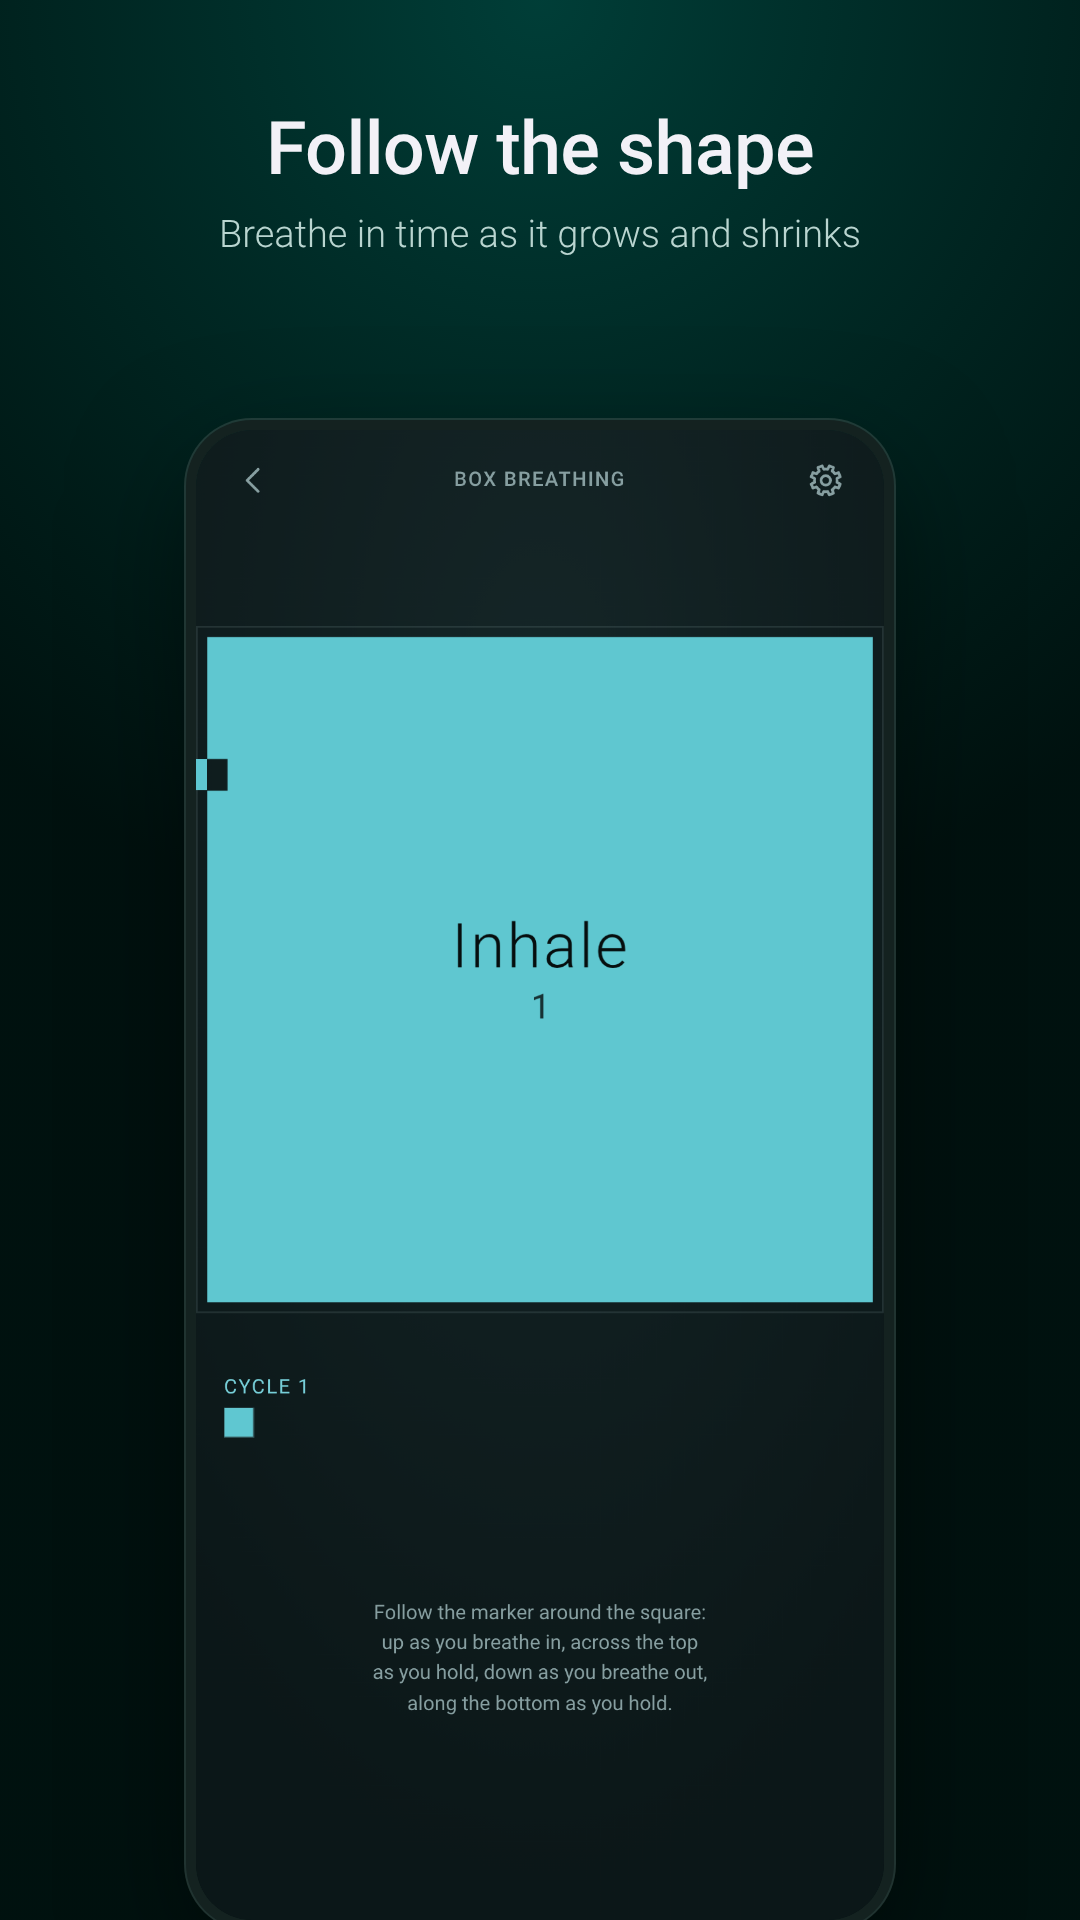
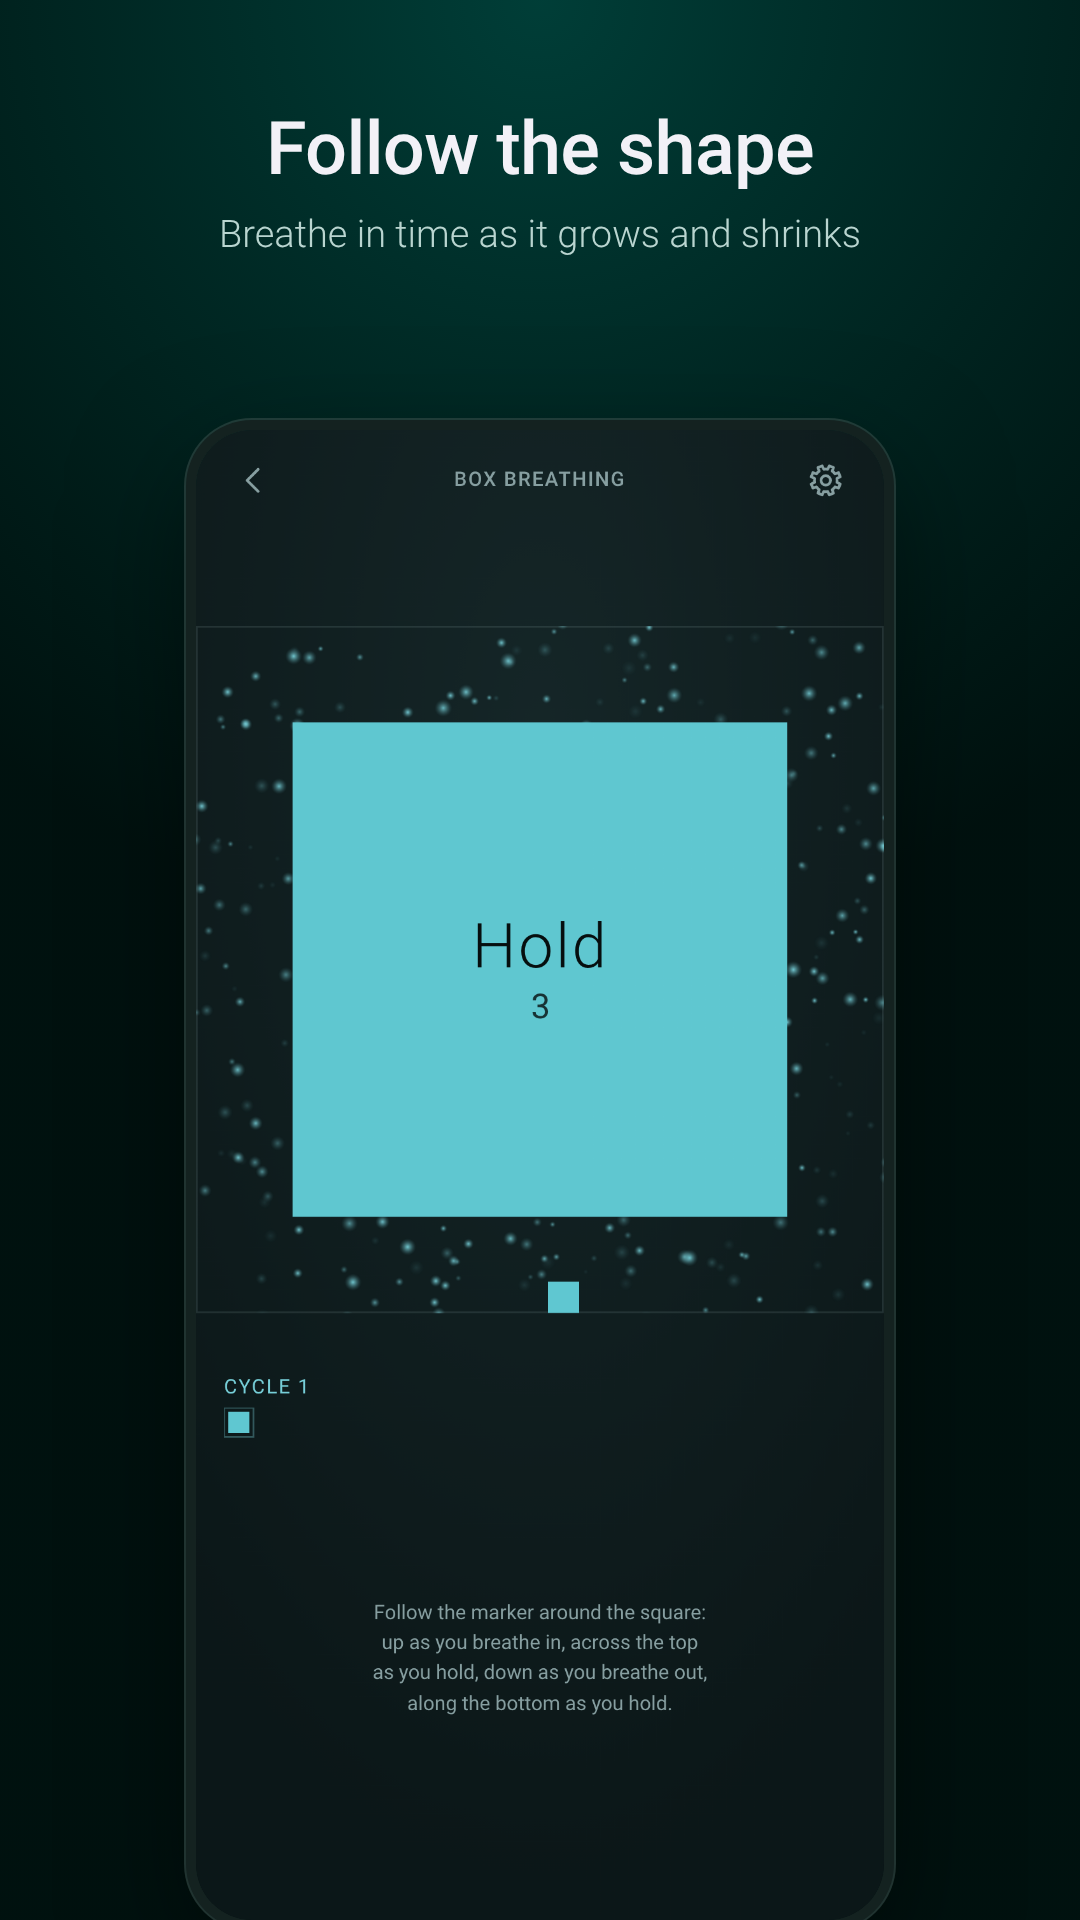
Store screenshots: Box with its particle ring, updated Settings; keep the templates
Claude-Session: https://claude.ai/code/session_01KAsYJRogKjYVXiUGUTp7pE

Changed region(s): [[0.1833, 0.3125, 0.825, 0.6875], [0.4278, 0.4688, 0.5806, 0.5312], [0.2139, 0.7188, 0.2444, 0.75]]

diff --git a/store/source/feature.html b/store/source/feature.html
@@ -1,0 +1,29 @@
+<!doctype html><meta charset="utf-8">
+<!-- Google Play feature graphic, 1024×500. -->
+<style>
+@font-face{font-family:Roboto;font-weight:300;src:url(/__fonts/roboto-latin-300-normal.woff2)}
+@font-face{font-family:Roboto;font-weight:500;src:url(/__fonts/roboto-latin-500-normal.woff2)}
+html,body{margin:0}
+body{width:1024px;height:500px;overflow:hidden;font-family:Roboto,sans-serif;color:#f2f1f7;
+  background:radial-gradient(90% 120% at 25% 50%, #2e2550 0%, #15122a 60%, #0e0c1c 100%);
+  display:flex;align-items:center;gap:48px;padding:0 56px;box-sizing:border-box}
+svg{flex:none}
+.text{display:flex;flex-direction:column;gap:14px}
+h1{margin:0;font-weight:500;font-size:68px;letter-spacing:-0.01em}
+p{margin:0;font-weight:300;font-size:30px;color:#c9c3e6;line-height:1.3}
+</style>
+<svg width="460" height="300" viewBox="0 0 460 300">
+  <defs>
+    <radialGradient id="g1" cx="50%" cy="45%" r="60%"><stop offset="0" stop-color="#c9a8f0"/><stop offset="1" stop-color="#7c78e0"/></radialGradient>
+    <filter id="glow" x="-50%" y="-50%" width="200%" height="200%"><feGaussianBlur stdDeviation="14"/></filter>
+  </defs>
+  <!-- square, circle, triangle: the three session shapes -->
+  <rect x="8" y="95" width="110" height="110" rx="4" fill="#5fc6cf" opacity=".25" filter="url(#glow)"/>
+  <rect x="8" y="95" width="110" height="110" rx="4" fill="#5fc6cf"/>
+  <circle cx="230" cy="150" r="80" fill="#8f7fe8" opacity=".35" filter="url(#glow)"/>
+  <circle cx="230" cy="150" r="92" fill="none" stroke="#b7aee0" stroke-opacity=".45" stroke-width="3"/>
+  <circle cx="230" cy="150" r="66" fill="url(#g1)"/>
+  <path d="M390 95 L452 205 L328 205 Z" fill="#e8907a" opacity=".3" filter="url(#glow)"/>
+  <path d="M390 95 L452 205 L328 205 Z" fill="#e8907a"/>
+</svg>
+<div class="text"><h1>Breath Shape</h1><p>Guided breathing exercises.<br>Follow the shape, settle body and mind.</p></div>

diff --git a/store/source/frame.html b/store/source/frame.html
@@ -1,0 +1,24 @@
+<!doctype html><meta charset="utf-8">
+<!-- Store screenshot frame: caption over a phone-sized capture. Rendered at 1080×1920
+     with ?h=<hue>&t=<title>&s=<subtitle>&img=<capture.png>; see store/README.md. -->
+<style>
+@font-face{font-family:Roboto;font-weight:300;src:url(/__fonts/roboto-latin-300-normal.woff2)}
+@font-face{font-family:Roboto;font-weight:400;src:url(/__fonts/roboto-latin-400-normal.woff2)}
+@font-face{font-family:Roboto;font-weight:500;src:url(/__fonts/roboto-latin-500-normal.woff2)}
+html,body{margin:0}
+body{width:1080px;height:1920px;overflow:hidden;font-family:Roboto,sans-serif;color:#f2f1f7;
+  background:radial-gradient(120% 70% at 50% 0%, oklch(0.32 0.07 var(--h)) 0%, oklch(0.16 0.03 var(--h)) 70%);
+  display:flex;flex-direction:column;align-items:center}
+.cap{padding:110px 90px 0;text-align:center;display:flex;flex-direction:column;gap:22px;height:250px}
+h1{margin:0;font-weight:500;font-size:74px;letter-spacing:-0.01em;line-height:1.05;text-wrap:balance}
+p{margin:0;font-weight:300;font-size:38px;line-height:1.3;color:oklch(0.85 0.03 var(--h));text-wrap:balance}
+.phone{margin-top:70px;height:1490px;aspect-ratio:1081/2343;border-radius:56px;overflow:hidden;
+  box-shadow:0 0 0 10px oklch(0.24 0.02 var(--h)),0 0 0 12px oklch(0.4 0.03 var(--h) / .6),0 40px 120px rgb(0 0 0/.55)}
+.phone img{width:100%;display:block}
+</style>
+<div class=cap><h1 id=title></h1><p id=sub></p></div><div class=phone><img id=img></div>
+<script>
+const q=new URLSearchParams(location.search);
+document.body.style.setProperty('--h',q.get('h'));
+title.textContent=q.get('t');sub.textContent=q.get('s');img.src=q.get('img');
+</script>

diff --git a/store/README.md b/store/README.md
@@ -1,0 +1,14 @@
+# Store graphics
+
+Google Play graphics for Breath Shape (see [docs/PLAY_STORE.md](../docs/PLAY_STORE.md)).
+
+| File | Size | Use |
+| --- | --- | --- |
+| `icon-512.png` | 512 × 512 | App icon (from `assets/icon-only.png`) |
+| `feature-graphic.png` | 1024 × 500 | Feature graphic |
+| `screenshot-1-home.png` … `screenshot-6-history.png` | 1080 × 1920 | Phone screenshots, in this order |
+
+The screenshots are real app screens (dark theme, 393 × 852 at 2.75×, Roboto) captured
+with Playwright from the local site, then placed in `source/frame.html` with a caption.
+`source/feature.html` renders the feature graphic at 1024 × 500. Both load Roboto from
+`/__fonts/`, which the capture script serves from the `@fontsource/roboto` package.
